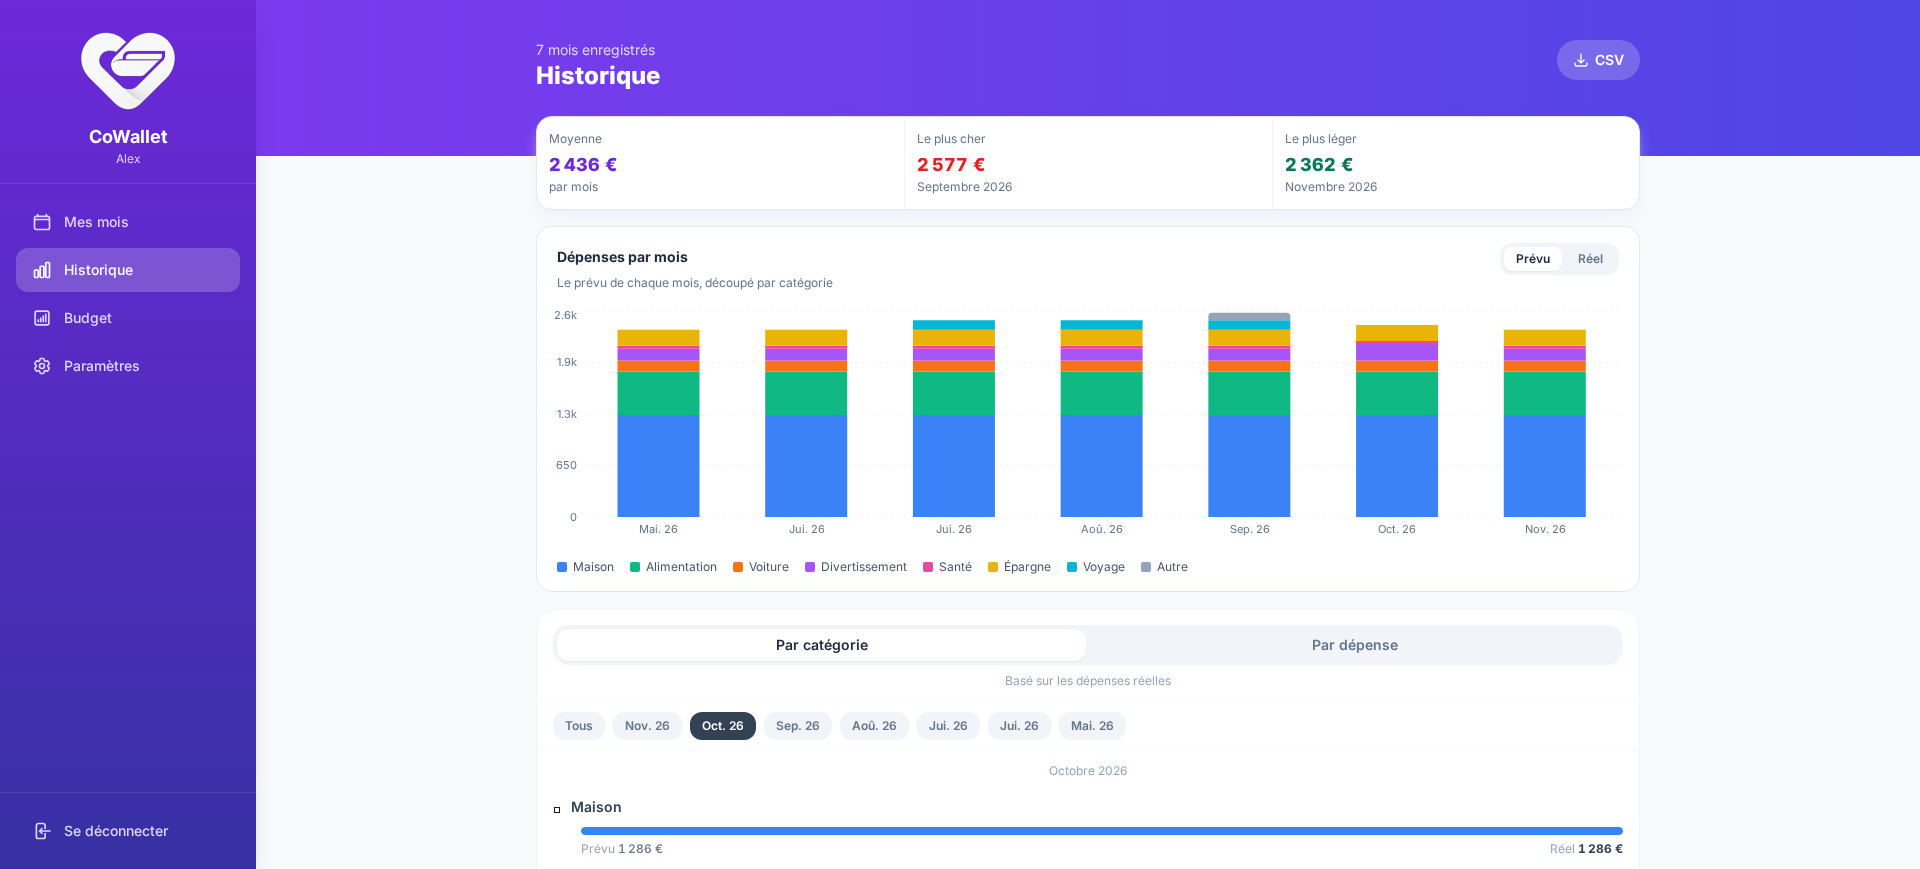
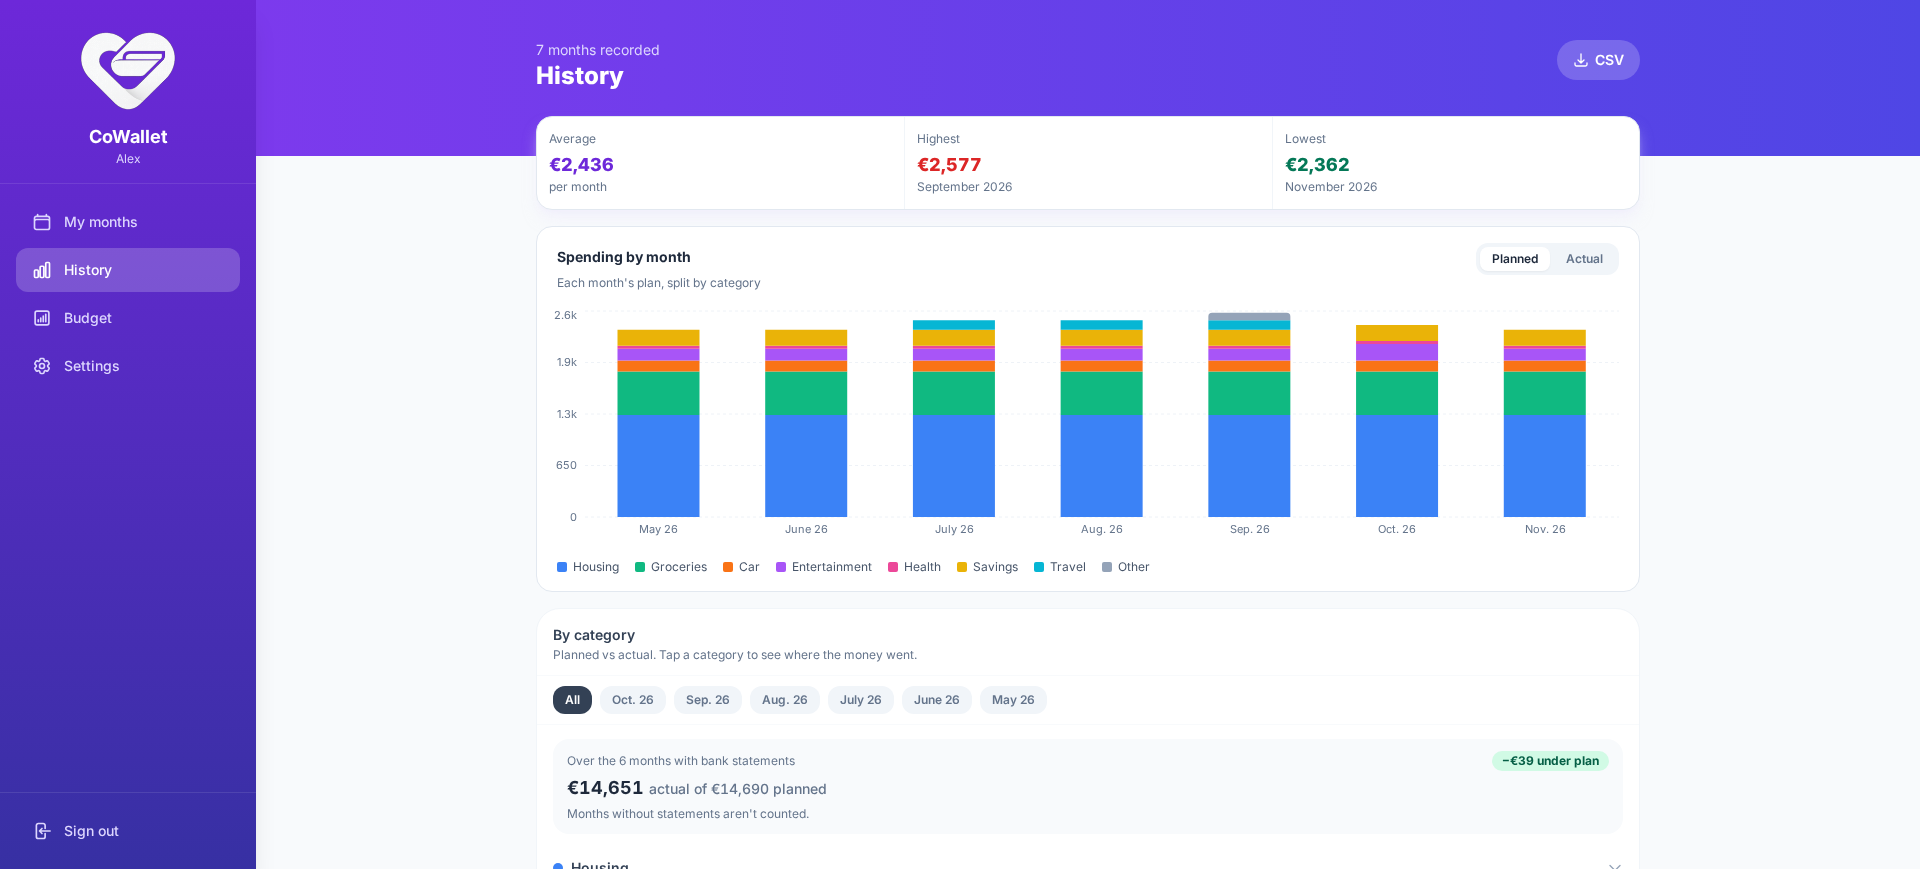
README : captures en anglais, comme le texte

diff --git a/README.md b/README.md
@@ -54,9 +54,9 @@ Most finance apps are built for one person. CoWallet is built for two. A self-ho
 ## Screenshots
 
 <p align="center">
-  <img src="docs/cowallet-homepage.png" alt="Mes mois" width="80%" />
-  <img src="docs/cowallet-monthly-page.png" alt="Détail d'un mois" width="80%" />
-  <img src="docs/cowallet-history.png" alt="Historique" width="80%" />
+  <img src="docs/cowallet-homepage.png" alt="My months" width="80%" />
+  <img src="docs/cowallet-monthly-page.png" alt="Month detail" width="80%" />
+  <img src="docs/cowallet-history.png" alt="History" width="80%" />
 </p>
 
 ## Quick Start
